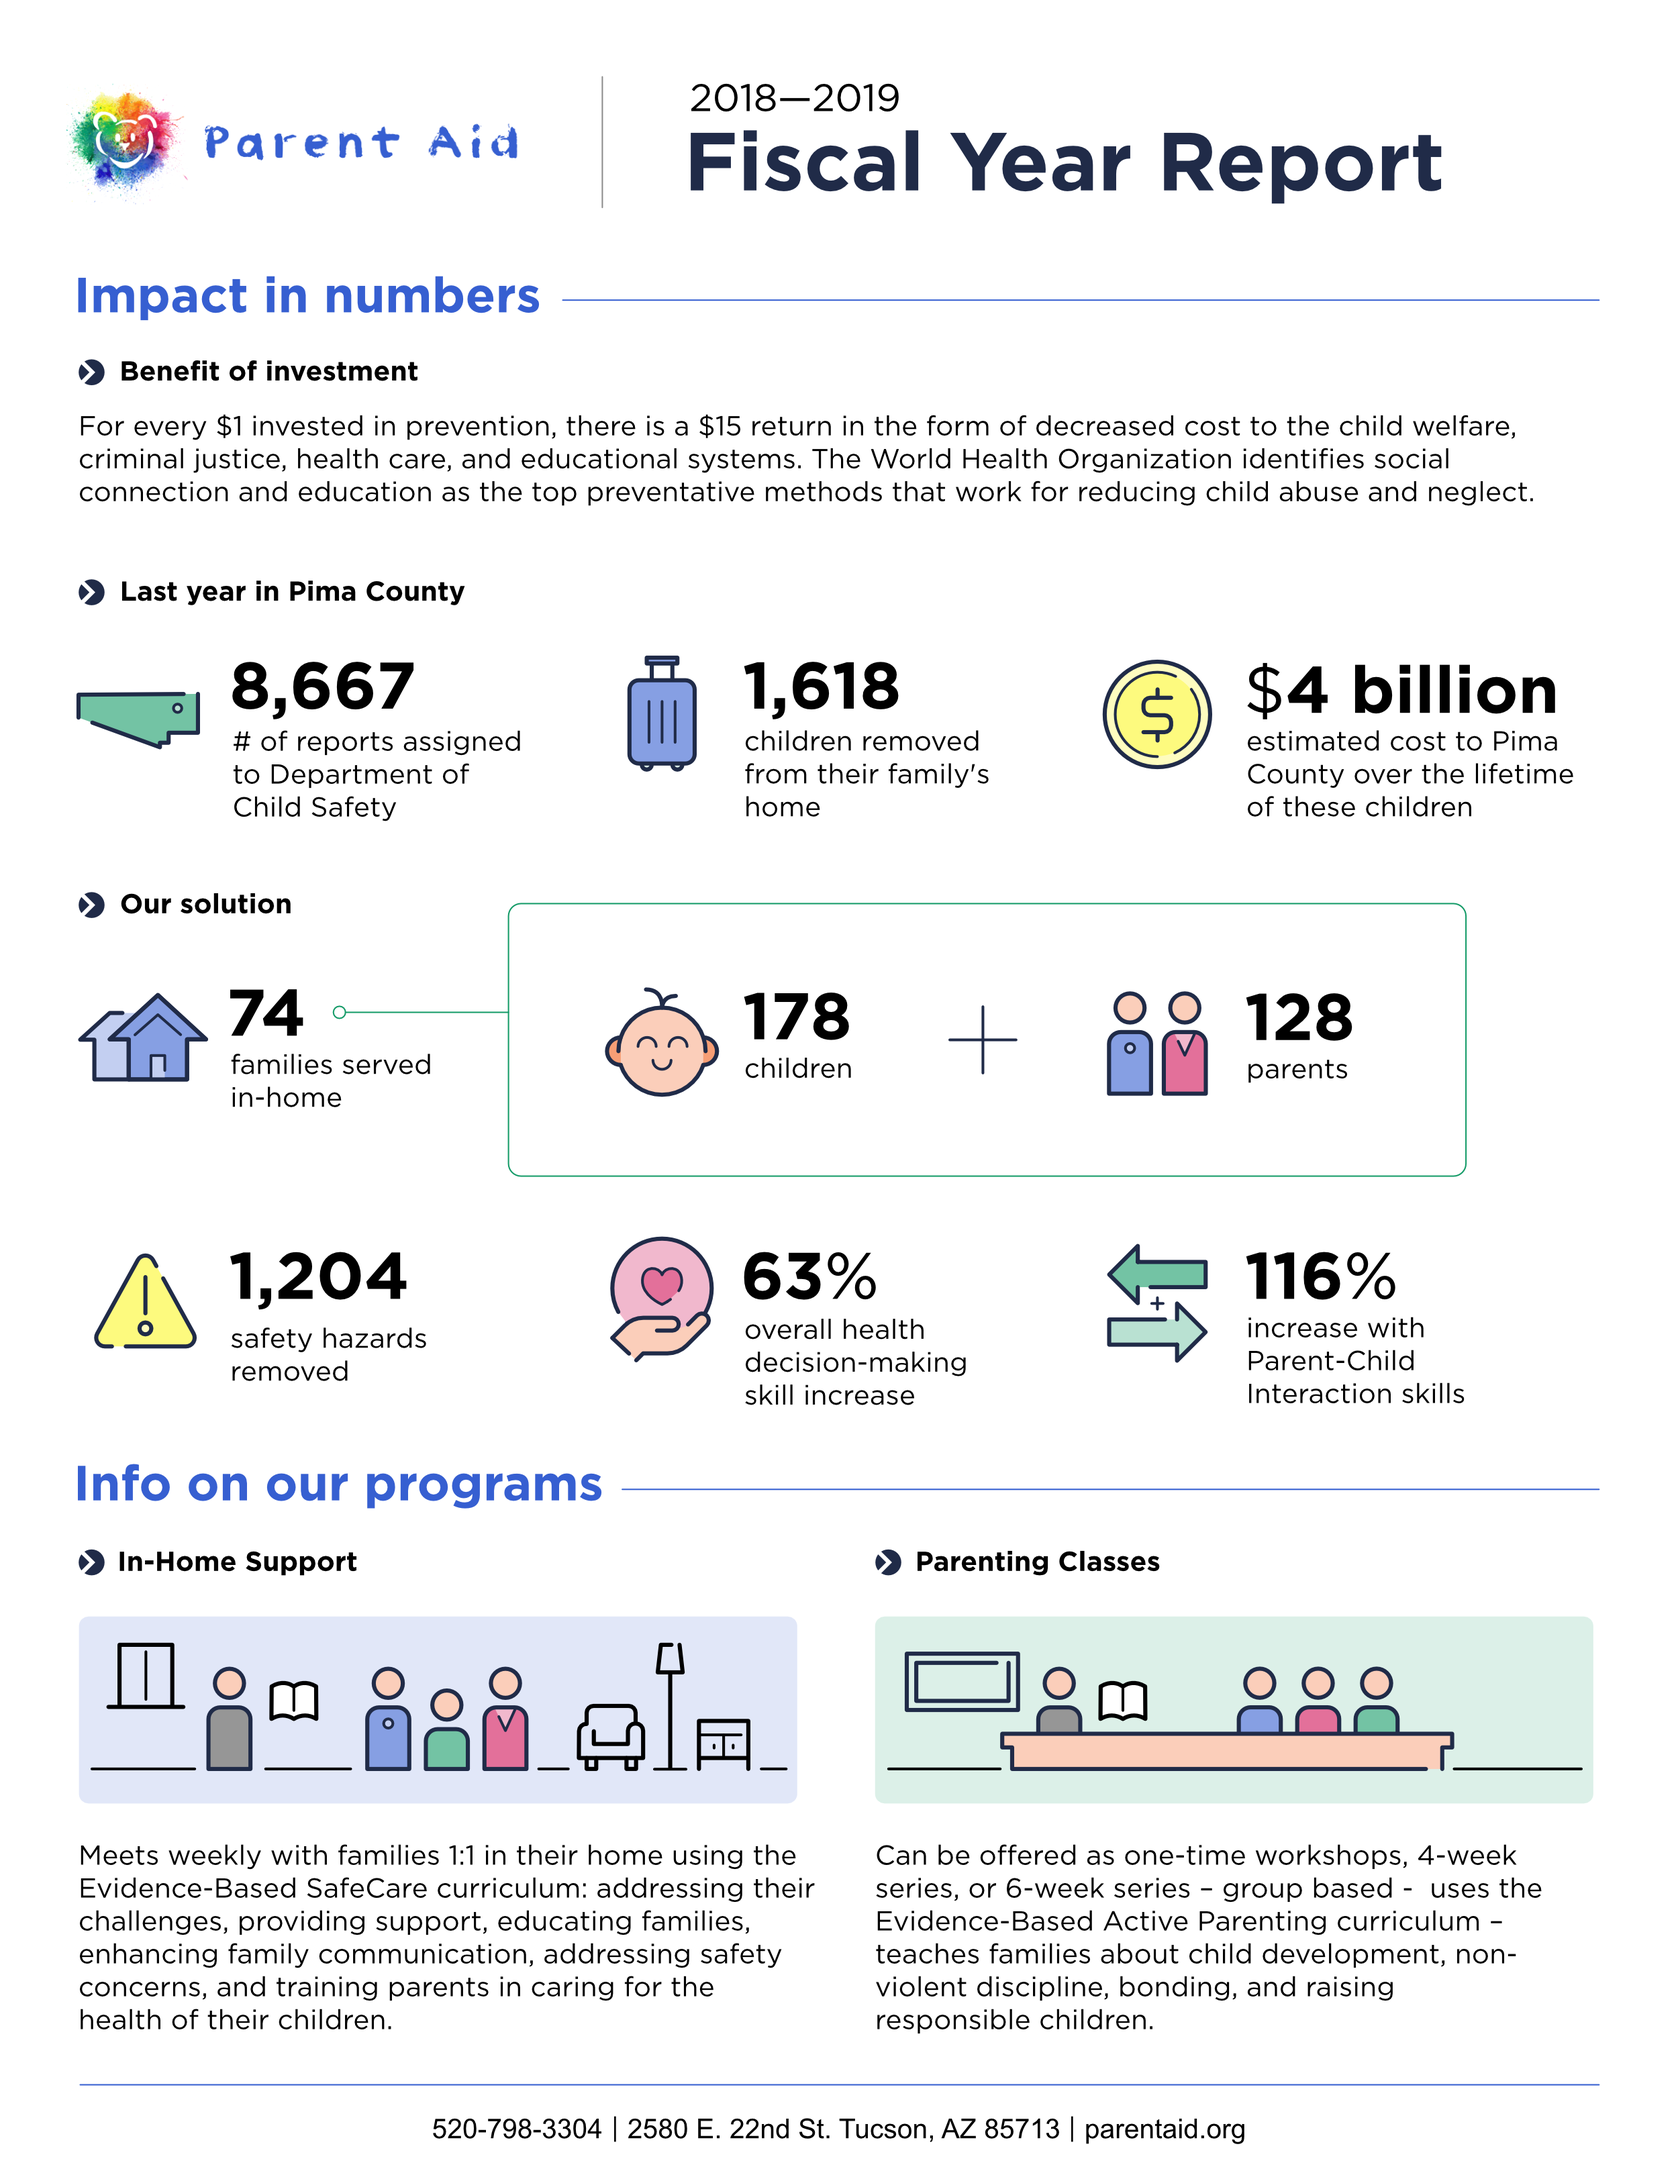
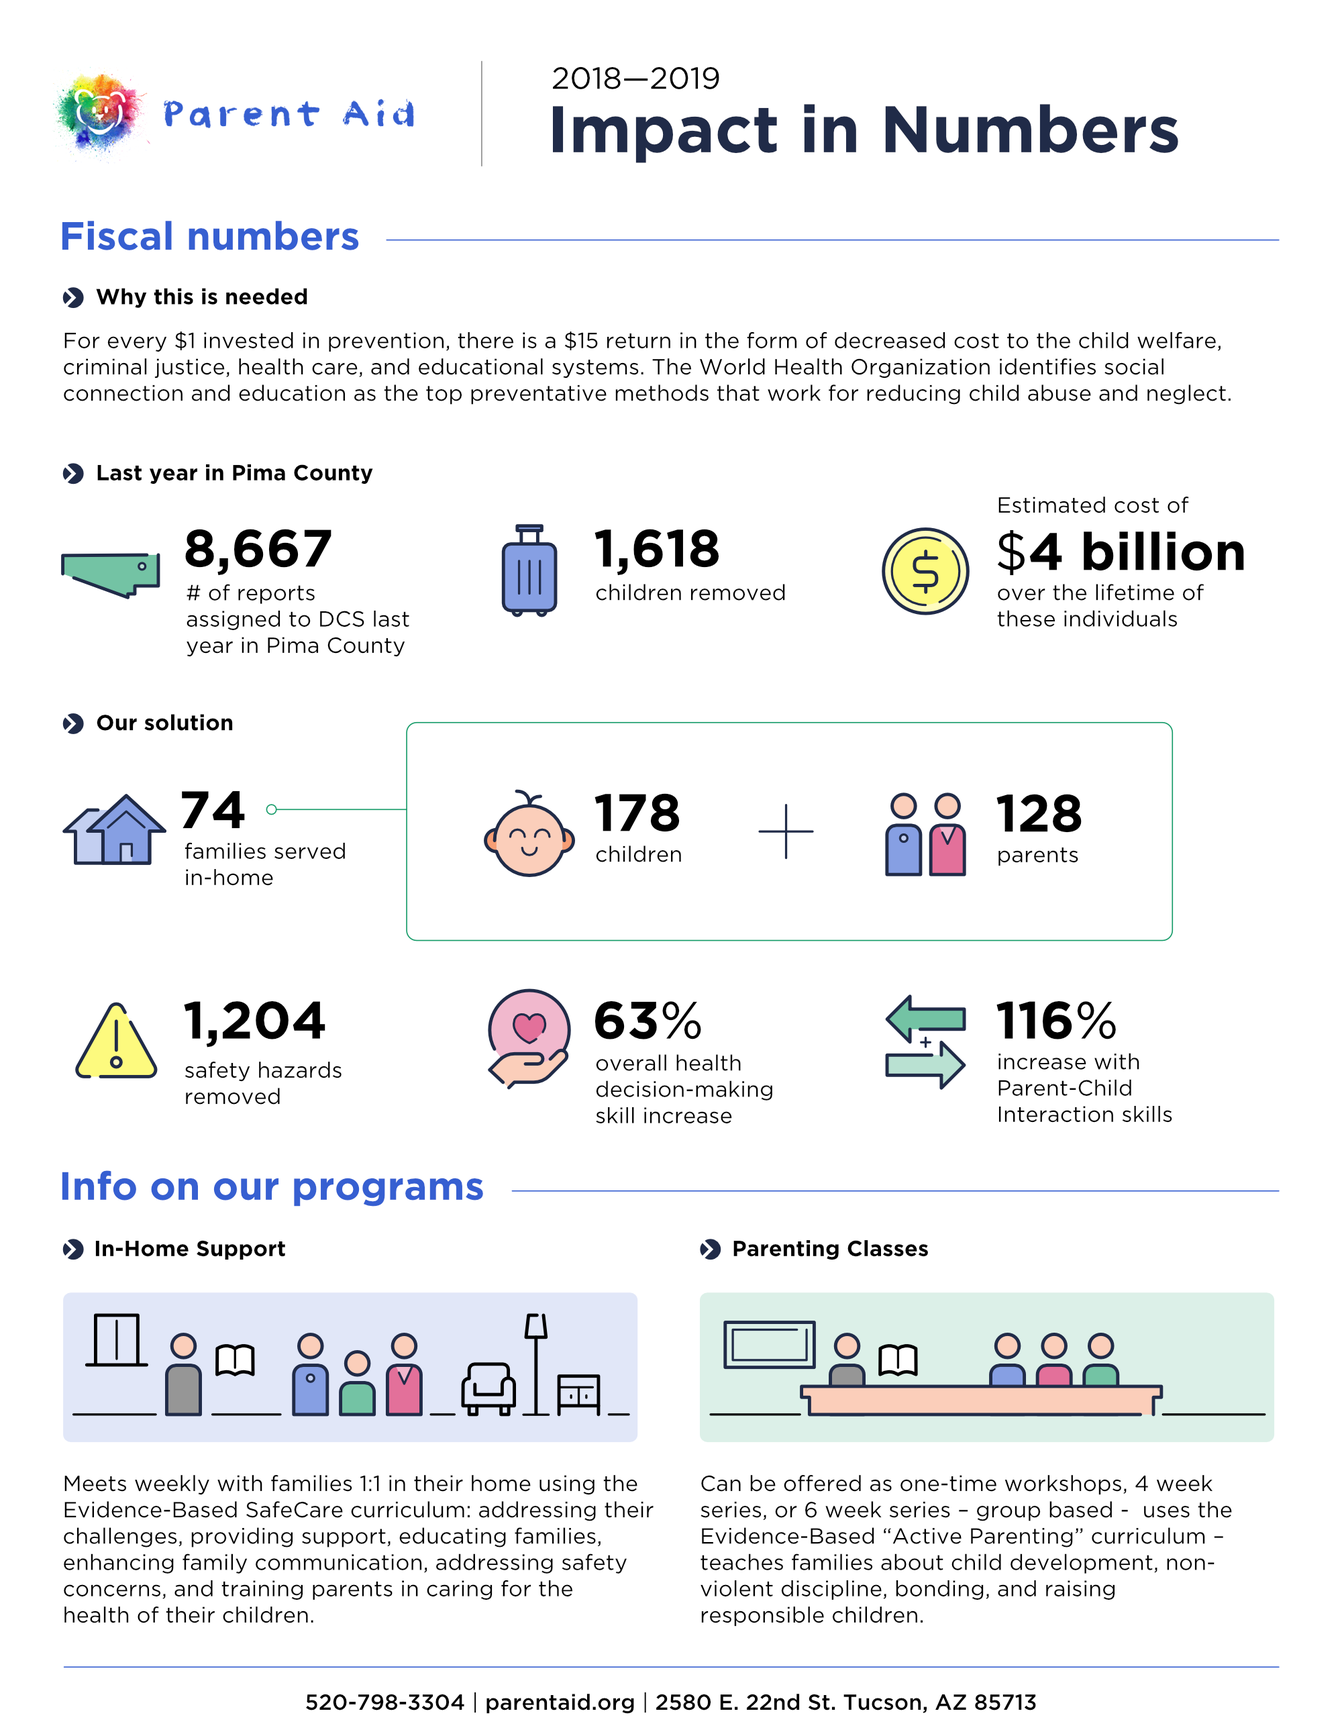
minor

diff --git a/partials/partial2.html b/partials/partial2.html
@@ -162,14 +162,14 @@
 <br>
 
 		<h3 class="proj-sm-col" id="case3"><span>CASE 3 —</span>Parent Aid Fiscal Report</h3>
-		<p class="proj-sm-col">In progress.</p>
+		<p class="proj-sm-col">What the clinet needs - An easily understood visual aid that communicates local child abuse issues and organization impact in numbers.</p>
 
 		<div class='col-md-6'>
-			<img ng-src='img/catchafire/Parent_Aid_Infographic_sketch.jpg' width='100%' />
+			<img ng-src='img/catchafire/Parent_Aid_Infographic_1.png' width='100%' />
 			<p class="image-label">first draft</p>
 		</div>
 		<div class='col-md-6'>
-			<img ng-src='img/catchafire/Parent_Aid_Infographic_1.png' width='100%' />
+			<img ng-src='img/catchafire/Parent_Aid_Infographic_2.png' width='100%' />
 			<p class="image-label">final layout</p>
 		</div>
 
